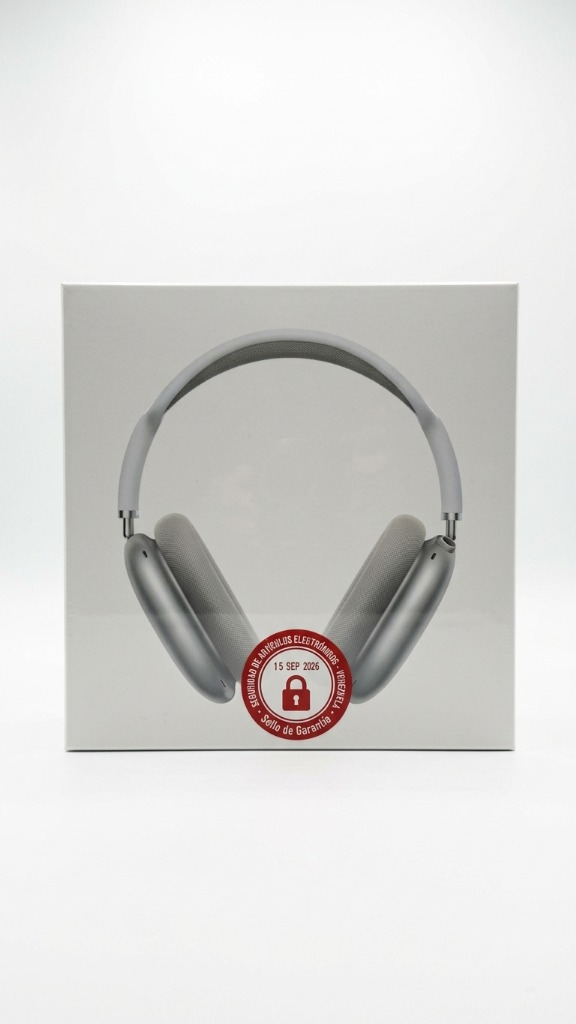
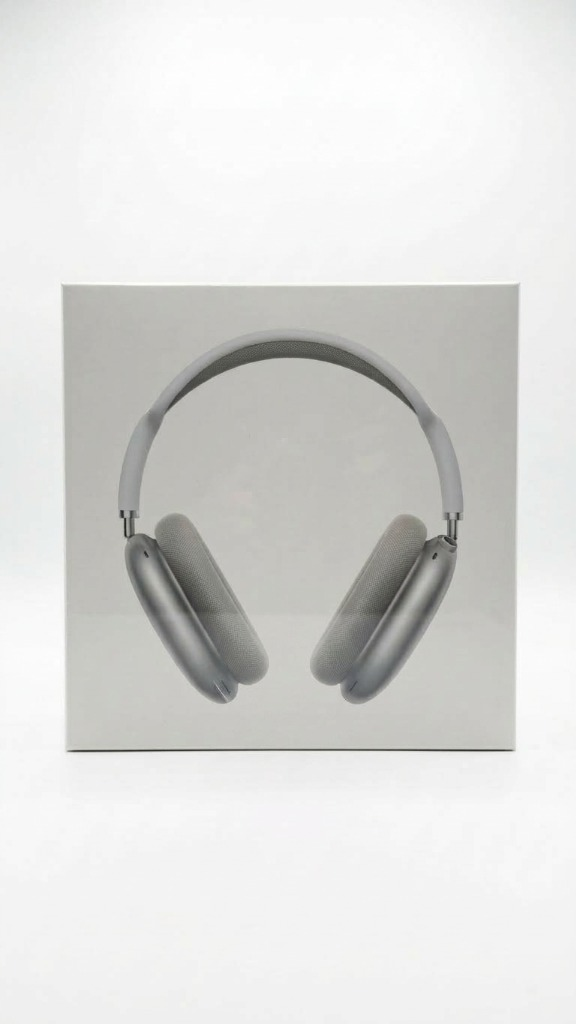
feat: update product images for AirPods Pro Max and Cable Lightning Type C

diff --git a/index.html b/index.html
@@ -9,7 +9,7 @@
   <meta http-equiv="Cache-Control" content="no-cache, no-store, must-revalidate">
   <meta http-equiv="Pragma" content="no-cache">
   <meta http-equiv="Expires" content="0">
-  <link rel="stylesheet" href="style.css?v=19.0">
+  <link rel="stylesheet" href="style.css?v=20.0">
 </head>
 <body>
 
@@ -405,6 +405,6 @@
     <svg width="20" height="20" viewBox="0 0 24 24" fill="none" stroke="currentColor" stroke-width="2" stroke-linecap="round" stroke-linejoin="round"><polyline points="18 15 12 9 6 15"/></svg>
   </button>
 
-  <script src="app.js?v=19.0"></script>
+  <script src="app.js?v=20.0"></script>
 </body>
 </html>

diff --git a/app.js b/app.js
@@ -5,7 +5,7 @@
 const RBSTORE_CONFIG = {
   whatsappNumber: "584120500675",
   adminKey: "2828",
-  storageKey: "rbstore_catalog_v25"
+  storageKey: "rbstore_catalog_v27"
 };
 
 // INITIAL SHOWCASE CATALOG (In exact order specified by user)

diff --git a/script.js b/script.js
@@ -5,7 +5,7 @@
 const RBSTORE_CONFIG = {
   whatsappNumber: "584120500675",
   adminKey: "2828",
-  storageKey: "rbstore_catalog_v25"
+  storageKey: "rbstore_catalog_v27"
 };
 
 // INITIAL SHOWCASE CATALOG (In exact order specified by user)
